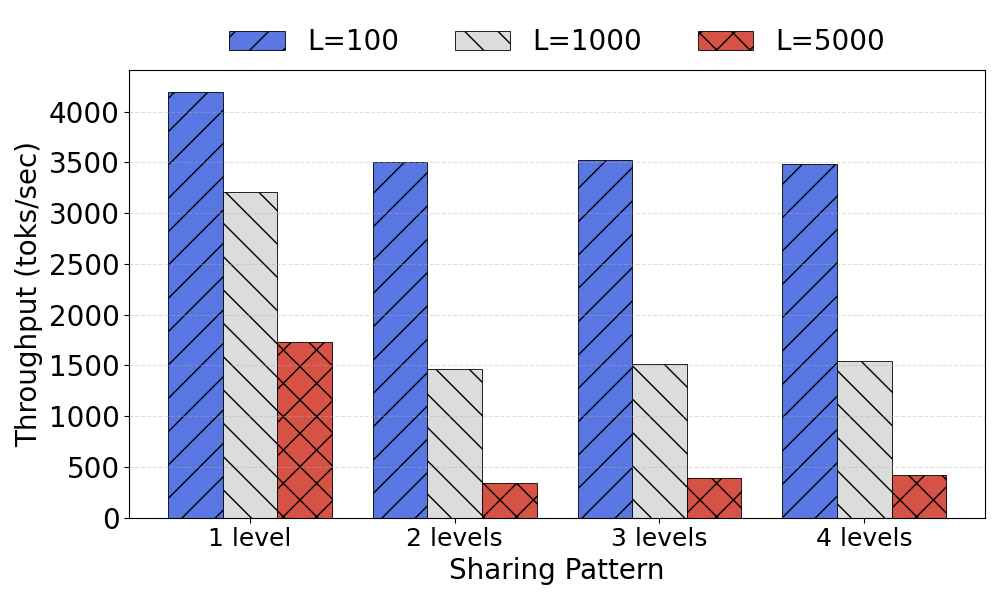
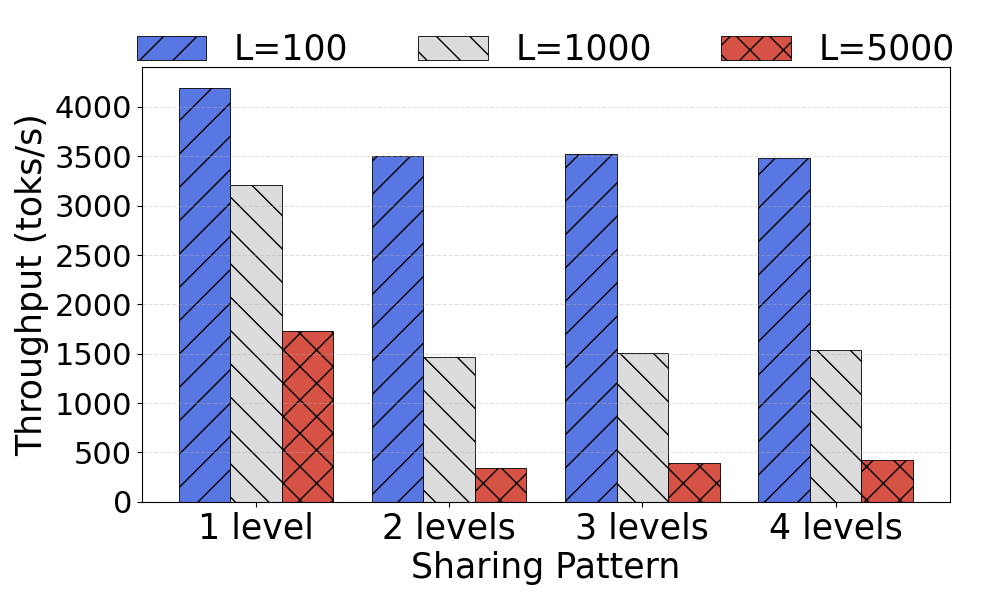
two-fam

Changed region(s): [[0.372, 0.24, 0.961, 0.99], [0.0, 0.03, 0.961, 0.93]]

diff --git a/code/vllm/logs_families_experiment/plot.py b/code/vllm/logs_families_experiment/plot.py
@@ -8,10 +8,10 @@ import numpy as np
 plt.rcParams.update({
     "font.size": 20,
     "axes.titlesize": 20,
-    "axes.labelsize": 17,
+    "axes.labelsize": 20,
     "xtick.labelsize": 20,
     "ytick.labelsize": 20,
-    "legend.fontsize": 17,
+    "legend.fontsize": 20,
     "figure.titlesize": 22
 })
 
@@ -87,14 +87,14 @@ bars2 = ax2.bar(
     x + width / 2,
     batch_vals,
     width,
-    label="Average Running Batch Size",
+    label="Average Batch Size",
     color="#d62728",
     alpha=0.85,
     hatch="xx",
     edgecolor="white"
 )
 
-ax2.set_ylabel("Average Running Batch Size")
+ax2.set_ylabel("Average Batch Size")
 
 # ── Legend placed INSIDE the plot at upper right ──────────────────────────────
 handles = [bars1, bars2]

diff --git a/code/vllm/plot_radix.py b/code/vllm/plot_radix.py
@@ -82,13 +82,13 @@ mode_labels = [
     for mode in all_modes
 ]
 
-plt.xticks(x, mode_labels, fontsize=18)
-plt.yticks(fontsize=20)
-plt.ylabel("Throughput (toks/sec)", fontsize=20)
-plt.xlabel("Sharing Pattern", fontsize=20)
+plt.xticks(x, mode_labels, fontsize=25)
+plt.yticks(fontsize=22)
+plt.ylabel("Throughput (toks/s)", fontsize=25)
+plt.xlabel("Sharing Pattern", fontsize=25)
 
 plt.legend(
-    fontsize=20,
+    fontsize=25,
     loc="upper center",
     bbox_to_anchor=(0.5, 1.15),
     ncol=len(all_L_values),
@@ -98,3 +98,4 @@ plt.legend(
 plt.grid(axis="y", linestyle="--", alpha=0.4)
 plt.tight_layout()
 plt.savefig("../../results/tp_different_modes_sharing_at_top.png")
+print("Plot saved to ../../results/tp_different_modes_sharing_at_top.png")
